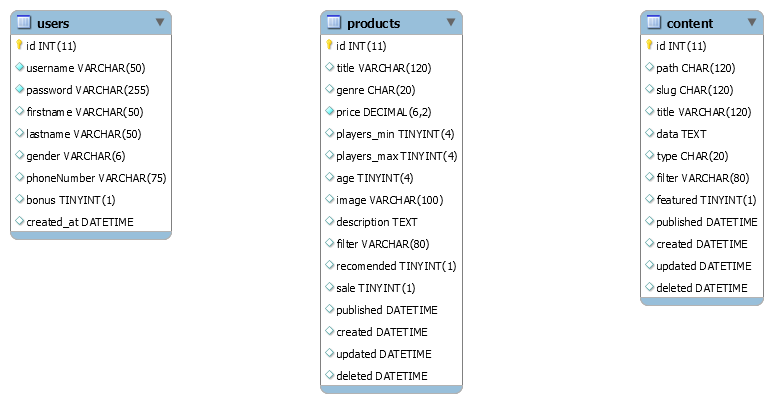
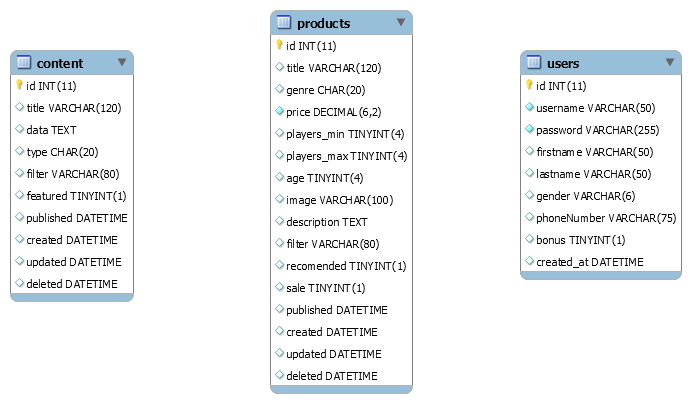
småfix

diff --git a/src/Admin/AdminController.php b/src/Admin/AdminController.php
@@ -205,8 +205,6 @@ class AdminController implements AppInjectableInterface
     // uppdatera content
     public function updateContentActionPost($id)
     {
-        $path = $this->app->request->getPost('path');
-        $slug = $this->app->request->getPost('slug');
         $type = $this->app->request->getPost('type');
         $title = $this->app->request->getPost('title');
         $data = $this->app->request->getPost('data');
@@ -214,9 +212,9 @@ class AdminController implements AppInjectableInterface
         $featured = $this->app->request->getPost('featured');
 
 
-        $params = [$path, $slug, $type, $title, $data, $filter, $featured, $id];
+        $params = [$type, $title, $data, $filter, $featured, $id];
         $this->app->db->connect();
-        $sql =  "UPDATE content SET path=?, slug=?, type=?, title=?, data=?, filter=?, featured=? WHERE id=?;";
+        $sql =  "UPDATE content SET type=?, title=?, data=?, filter=?, featured=? WHERE id=?;";
         $this->app->db->executeFetch($sql, $params);
 
         return  $this->app->response->redirect("admin/overview");
@@ -270,16 +268,14 @@ class AdminController implements AppInjectableInterface
     // skapa content
     public function createContentActionPost()
     {
-        $path = $this->app->request->getPost('path');
-        $slug = $this->app->request->getPost('slug');
         $type = $this->app->request->getPost('type');
         $title = $this->app->request->getPost('title');
         $data = $this->app->request->getPost('data');
         $filter = $this->app->request->getPost('filter');
-        $params = [$path, $slug, $type, $title, $data, $filter];
+        $params = [$type, $title, $data, $filter];
 
         $this->app->db->connect();
-        $sql = "INSERT INTO content (path, slug, type, title, data, filter) VALUES (?, ?, ?, ?, ?, ?);";
+        $sql = "INSERT INTO content (type, title, data, filter) VALUES (?, ?, ?, ?);";
 
         $this->app->db->execute($sql, $params);
 

diff --git a/src/Content/ContentController.php b/src/Content/ContentController.php
@@ -40,13 +40,13 @@ class ContentController implements AppInjectableInterface
             $row->description = $this->filterText($row->description, $row->filter);
         }
 
-        $sql = "SELECT id, SUBSTRING_INDEX(data, ' ', 20) AS data, title, published, updated, filter FROM content WHERE featured= TRUE LIMIT 1;";
+        $sql = "SELECT id, SUBSTRING_INDEX(data, ' ', 20) AS data, title, published, updated, filter FROM content WHERE featured=TRUE  ORDER BY published DESC  LIMIT 1;";
         $featured =  $this->app->db->executeFetch($sql);
         if ($featured) {
             $featured->data = $this->filterText($featured->data, $featured->filter);
         }
 
-        $sql = "SELECT id, title, SUBSTRING_INDEX(description, ' ', 20) AS description, image, published, updated, filter FROM products WHERE sale= TRUE LIMIT 1;";
+        $sql = "SELECT id, title, SUBSTRING_INDEX(description, ' ', 20) AS description, image, published, updated, filter FROM products WHERE sale= TRUE  ORDER BY published DESC  LIMIT 1;";
         $sale =  $this->app->db->executeFetch($sql);
         if ($sale) {
             $sale->description = $this->filterText($sale->description, $sale->filter);
@@ -92,16 +92,15 @@ class ContentController implements AppInjectableInterface
         ]);
     }
 
-    // rendera om sidan
+    // rendera about sidan
     public function omActionGet()
     {
-
         $this->app->db->connect();
         $sql = "SELECT * FROM content WHERE title='Om';";
         $res = $this->app->db->executeFetch($sql);
         $res->data = $this->filterText($res->data, $res->filter);
         $title = $res->title ;
-        $this->app->page->add("$res->path", [
+        $this->app->page->add("content/om", [
             "res" => $res,
         ]);
 

diff --git a/view/admin/overview.php b/view/admin/overview.php
@@ -20,8 +20,6 @@ namespace Anax\View;
             <th>Created</th>
             <th>Updated</th>
             <th>Deleted</th>
-            <th>Path</th>
-            <th>Slug</th>
             <th>Update</th>
             <th>Delete</th>
         </tr>
@@ -34,8 +32,6 @@ namespace Anax\View;
             <td><?= $row->created ?></td>
             <td><?= $row->updated ?></td>
             <td><?= $row->deleted ?></td>
-            <td><?= $row->path ?></td>
-            <td><?= $row->slug ?></td>
             <td><a href="<?= "updateContent/{$row->id}" ?>" ><i class="material-icons">edit</i></a></td>
             <td><a href="<?= "deleteContent/{$row->id}" ?>" ><i class="material-icons">delete</i></a></td>
           </tr>

diff --git a/view/admin/update.php b/view/admin/update.php
@@ -3,7 +3,7 @@ namespace Anax\View;
 
 ?>
 <hr>
-<?php $readonlys = ["id", "path", "created", "updated", "deleted", "published", "filter"] ?>
+<?php $readonlys = ["id", "created", "updated", "deleted", "published", "filter"] ?>
 <?php if ($app->session->get("valid")) : ?>
     <div class="nav2">
         <a href="<?= url("admin/overview") ?>"><i class="fas fa-arrow-left fa-3x"></i></a>Tillbaka
